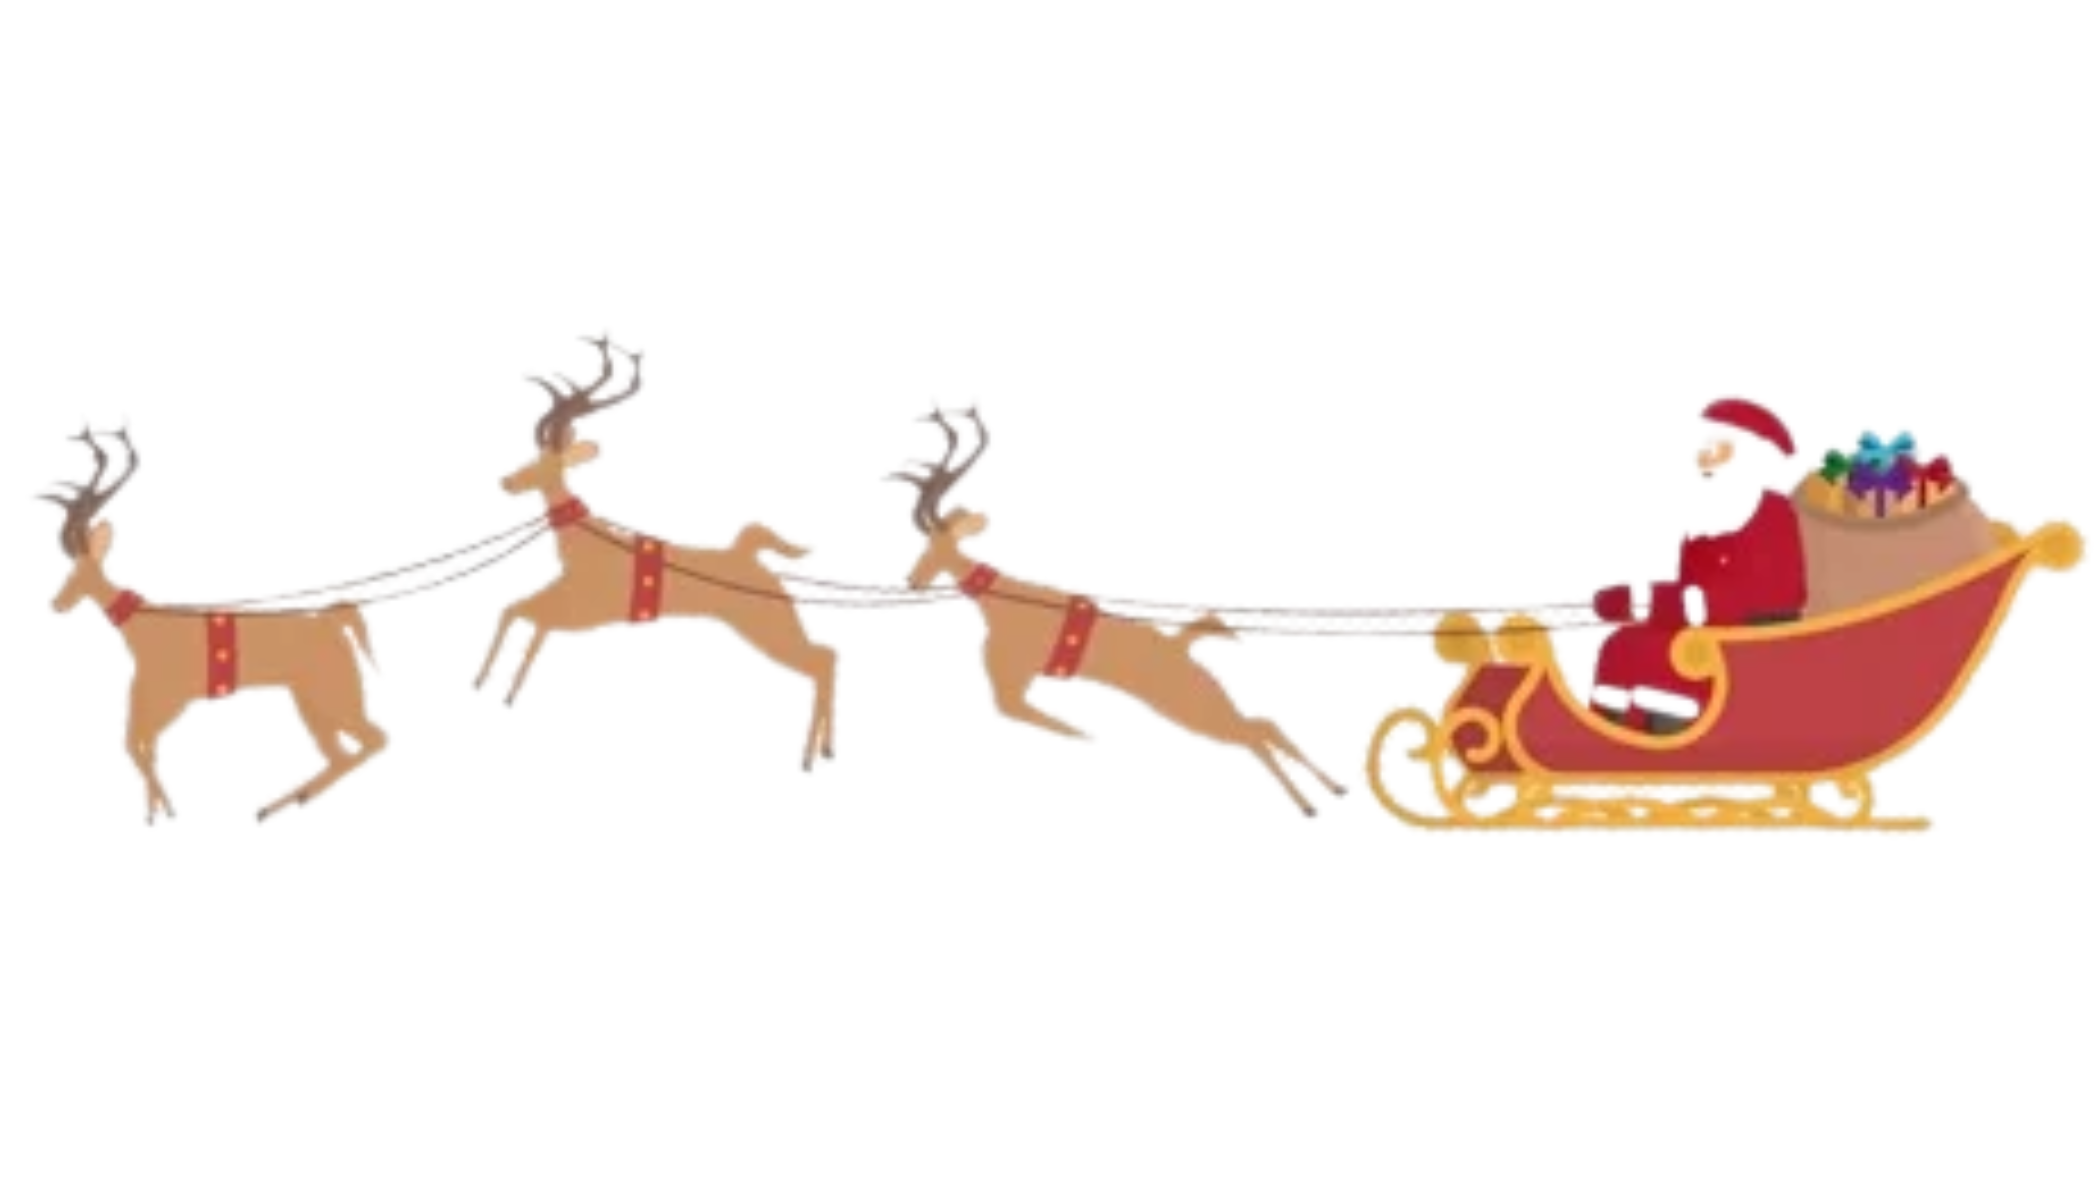
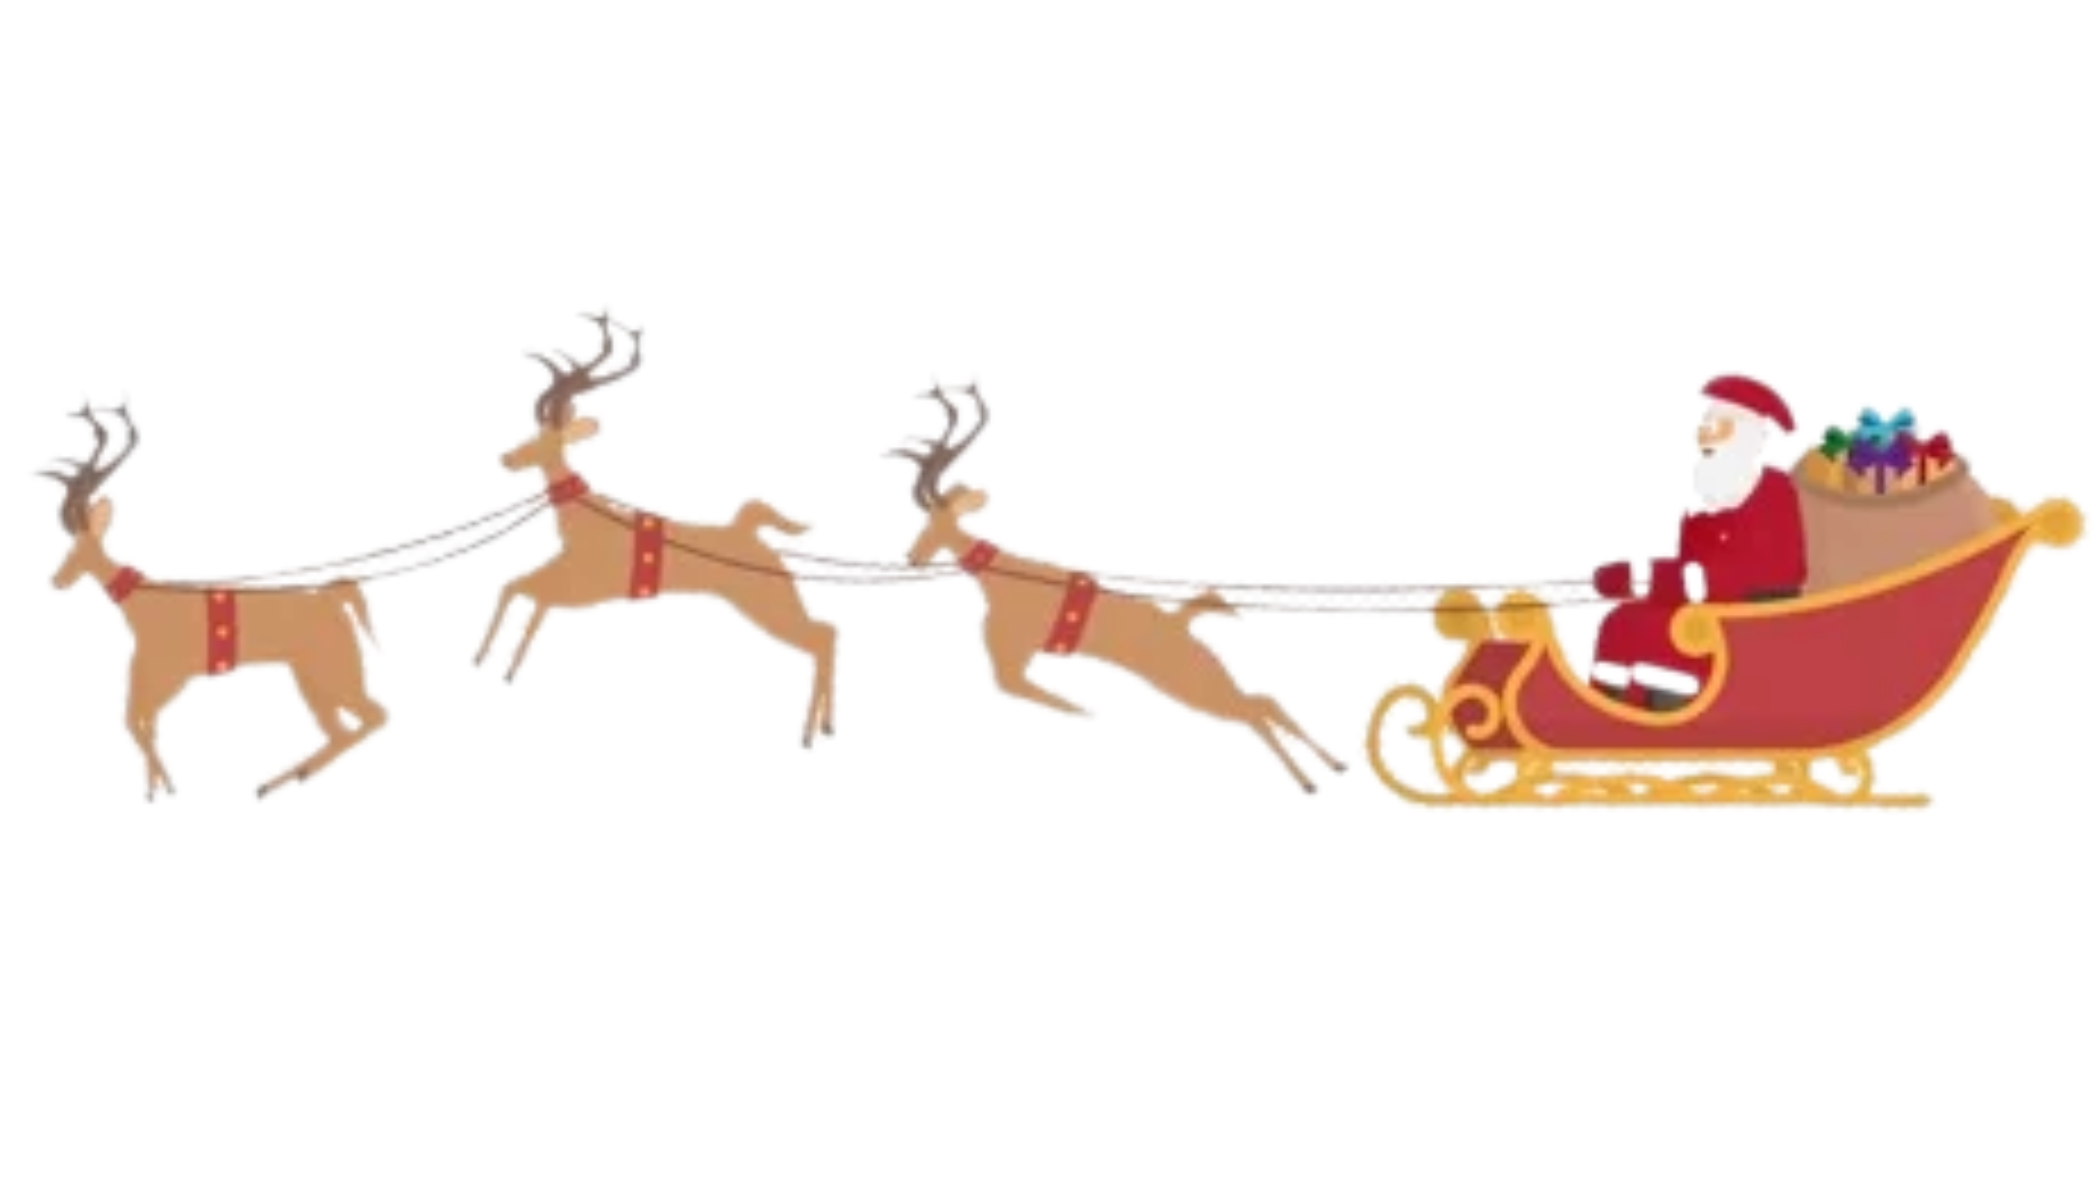
new santa

Changed region(s): [[0.0, 0.2467, 1.0, 0.7092]]

diff --git a/sketch.js b/sketch.js
@@ -818,7 +818,16 @@ function displayTownText() {
     textSize(20);
     fill(100,100,120);
     strokeWeight(3);
-    stroke(200,200,200);
+    //stroke(200,200,200);
     text("Click a door to enter", 30, height-30);
+  pop();
+
+  push();
+    textFont('Georgia');
+    textSize(20);
+    fill(100,100,120);
+    strokeWeight(3);
+    //stroke(200,200,200);
+    text("Click sled for fun", width-450, height-30);
   pop();
 }
